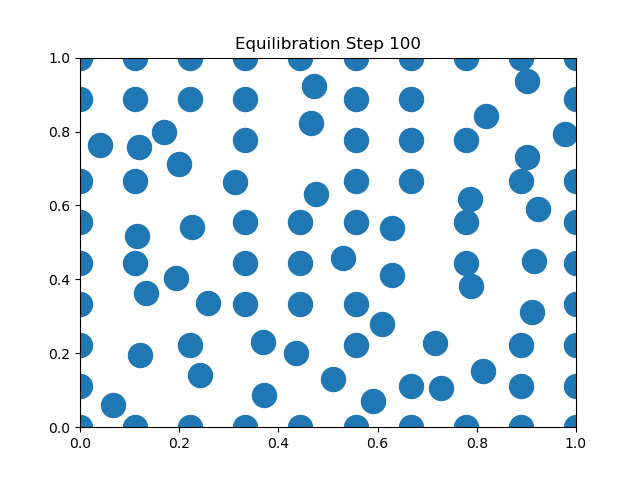
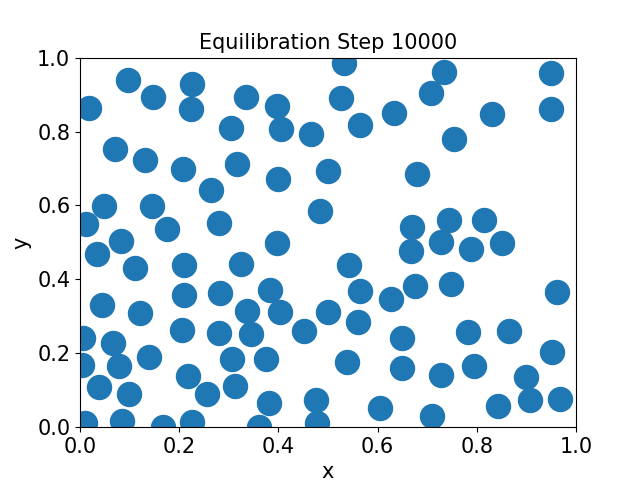
gif changes

diff --git a/pair_correlation.py b/pair_correlation.py
@@ -16,6 +16,7 @@ def mc_move(x, y, r, d, L):
 
 
     # Pick a random particle
+
     i = np.random.randint(N)
     old_x = x[i]
     old_y = y[i]
@@ -52,6 +53,7 @@ def mc_move(x, y, r, d, L):
 
     dy_all = y[i] - y
     dy_all -= L * np.round(dy_all / L)
+
     dist2 = dx_all**2 + dy_all**2
     r_sum2 = 4*(r)**2
     dist2[i] = np.inf
@@ -79,7 +81,7 @@ save_every = 100     # save a frame every N steps
 os.makedirs("frames_equil", exist_ok=True)
 eq_frame_index = 0
 save_every_equil = 100     # save a frame every 100 steps
-d = 0.1
+d = 0.15
 L = 1.0
 
 # Random initial positions
@@ -168,7 +170,7 @@ def pairCorrelationFunction_2D(x, y, L, rMax, dr):
     
     return r_array, g_r
 
-def averaged_g_r(x, y, r, d, L, rMax, dr, num_sims=10, equil_steps=10000):
+def averaged_g_r(x, y, r, d, L, rMax, dr, num_sims, equil_steps):
 
     g_r_sum = None
 
@@ -196,122 +198,85 @@ def averaged_g_r(x, y, r, d, L, rMax, dr, num_sims=10, equil_steps=10000):
     return r_vals, g_r_avg
 
 
-
 # Perform 1000 MC moves
 overlaps = find_overlaps(x, y, r)
 print("there are", len(overlaps), "overlaps")
 accepted_moves = 0
-for step in range(1000):
+for step in range(200000):
+    if step % 10000 == 0:
+        plt.figure()
+        plt.scatter(x, y, s=points_radius**2)
+        plt.xlabel('x', fontsize = 15)
+        plt.ylabel('y', fontsize = 15)
+        plt.xticks(fontsize = 15)
+        plt.yticks(fontsize = 15)
+        plt.xlim(0, L); plt.ylim(0, L)
+        plt.title(f"Equilibration Step {step}", fontsize = 15)
+        plt.savefig(f"frames_equil/eq_{eq_frame_index:04d}.png")
+        plt.close()
+        eq_frame_index += 1
     x, y, accepted = mc_move(x, y, r, d, L)
     if accepted:
         accepted_moves += 1
-    if step%100 == 0 and step!=0:
+    if step%10000 == 0 and step!=0:
         #print(step)
         #print(accepted_moves)
         acceptance_ratio = accepted_moves/step
         print("Acceptance ratio (no modification): ", acceptance_ratio)
-    if step % save_every_equil == 0:
-        plt.figure()
-        plt.scatter(x, y, s=points_radius**2)
-        plt.xlim(0, L); plt.ylim(0, L)
-        plt.title(f"Equilibration Step {step}")
-        plt.savefig(f"frames_equil/eq_{eq_frame_index:04d}.png")
-        plt.close()
-        eq_frame_index += 1
-        #can always modify this so it just does 1 cycle
+
+        
+#run simulation
+print("Acceptance ratio after 200,000 moves:", acceptance_ratio)
 while acceptance_ratio>0.5 or acceptance_ratio<0.25:
     if acceptance_ratio>0.5:
         accepted_moves=0
-        d = d*1.05
-        for j in range(0,10000):
+        d = d*1.05 
+        print("d=", d)
+        for j in range(0,200000):
             x,y,accepted = mc_move(x,y,r,d,L)
             if accepted:
                 accepted_moves+=1
-            if j % save_every_equil == 0:
-                plt.figure()
-                plt.scatter(x, y, s=points_radius**2)
-                plt.xlim(0, L); plt.ylim(0, L)
-                plt.title(f"Tuning Step {j}")
-                plt.savefig(f"frames_equil/eq_{eq_frame_index:04d}.png")
-                plt.close()
-                eq_frame_index += 1
-        acceptance_ratio = accepted_moves/10000
+        acceptance_ratio = accepted_moves/1000
         print("Acceptance ratio (large):", acceptance_ratio)
     if acceptance_ratio<0.25:
         accepted_moves = 0
         d = d*0.95
-        for j in range(0,10000):
+        print("d =",d)
+        for j in range(0,200000):
             x,y,accepted = mc_move(x,y,r,d,L)
             if accepted:
                 accepted_moves+=1
-            if j % save_every_equil == 0:
-                plt.figure()
-                plt.scatter(x, y, s=points_radius**2)
-                plt.xlim(0, L); plt.ylim(0, L)
-                plt.title(f"Tuning Step {j}")
-                plt.savefig(f"frames_equil/eq_{eq_frame_index:04d}.png")
-                plt.close()
-                eq_frame_index += 1
-        acceptance_ratio = accepted_moves/10000
+        acceptance_ratio = accepted_moves/1000
         print("Acceptance ratio (small):", acceptance_ratio)
 print("final acceptance ratio:", acceptance_ratio)
 
+
+
 N = len(x)
 dr_values = [0.1*r,0.2*r,0.3*r,0.4*r,0.5*r]
+dr_text = ['δr = 0.1r', 'δr = 0.2r', 'δr = 0.3r', 'δr = 0.4r', 'δr = 0.5r']
 g_r_results = []
 
 print("\nCalculating g(r) for different dr values...")
 for dr in dr_values:
     print(f"  Computing with dr = {dr:.4f}...")
-    r_vals, g_r = averaged_g_r(x,y,r,d,L,L/2,dr,num_sims=10, equil_steps=10000)
+    r_vals, g_r = averaged_g_r(x,y,r,d,L,L/2,dr,num_sims=100, equil_steps=1000)
     g_r_results.append((r_vals, g_r, dr))
 
-
-plt.figure(figsize=(10, 4))
-
-plt.subplot(1, 2, 1)
+plt.figure(figsize=(5,5))
 fig = plt.gcf()
 dpi = fig.get_dpi()
-marker_radius_points = r * min(fig.get_size_inches()) * dpi
-marker_area_points2 = (2 * marker_radius_points)**2
-plt.scatter(x, y, s=points_radius**2)
-plt.xlim(0, L)
-plt.ylim(0, L)
-plt.xlabel('x')
-plt.ylabel('y')
-plt.title('Final Configuration')
-plt.gca().set_aspect('equal')
-
-plt.subplot(1, 2, 2)
-colors = ['blue', 'green', 'red', 'purple', 'orange']
-for i, (r_vals, g_r, dr) in enumerate(g_r_results):
-    plt.plot(r_vals, g_r, color=colors[i], linewidth=2, label=f'dr = {dr:.4f}')
+colors = ['grey', 'green', 'red', 'purple', 'orange', 'yellow']
+for i, (r_vals, g_r, dr) in enumerate(g_r_results):#enumerate removes the need for a counter variable - improves efficiency
+    plt.plot(r_vals, g_r, color=colors[i], linewidth=1, label = dr_text[i])
 
 plt.xlabel('r')
 plt.ylabel('g(r)')
 plt.title('Pair Correlation Function')
-plt.grid(True, alpha=0.3)
+plt.grid(False)
 plt.axhline(y=1, color='r', linestyle='--', alpha=0.5, label='Ideal gas')
 plt.legend()
 plt.show()
-
-
-### GIF BUILDING ###
-frames = []
-files = sorted(glob.glob("frames/*.png"))
-
-for f in files:
-    frames.append(Image.open(f))
-
-frames[0].save(
-    "simulation.gif",
-    save_all=True,
-    append_images=frames[1:],
-    duration=200,
-    loop=0
-)
-
-print("GIF saved as simulation.gif")
 
 ### BUILD EQUILIBRATION GIF ###
 eq_frames = []
@@ -335,6 +300,3 @@ print("there are", len(overlaps), "overlaps")
 print("Overlapping pairs:", overlaps)
 #plt.scatter(x,y,s=points_radius**2)
 #plt.show()
-
-
-
